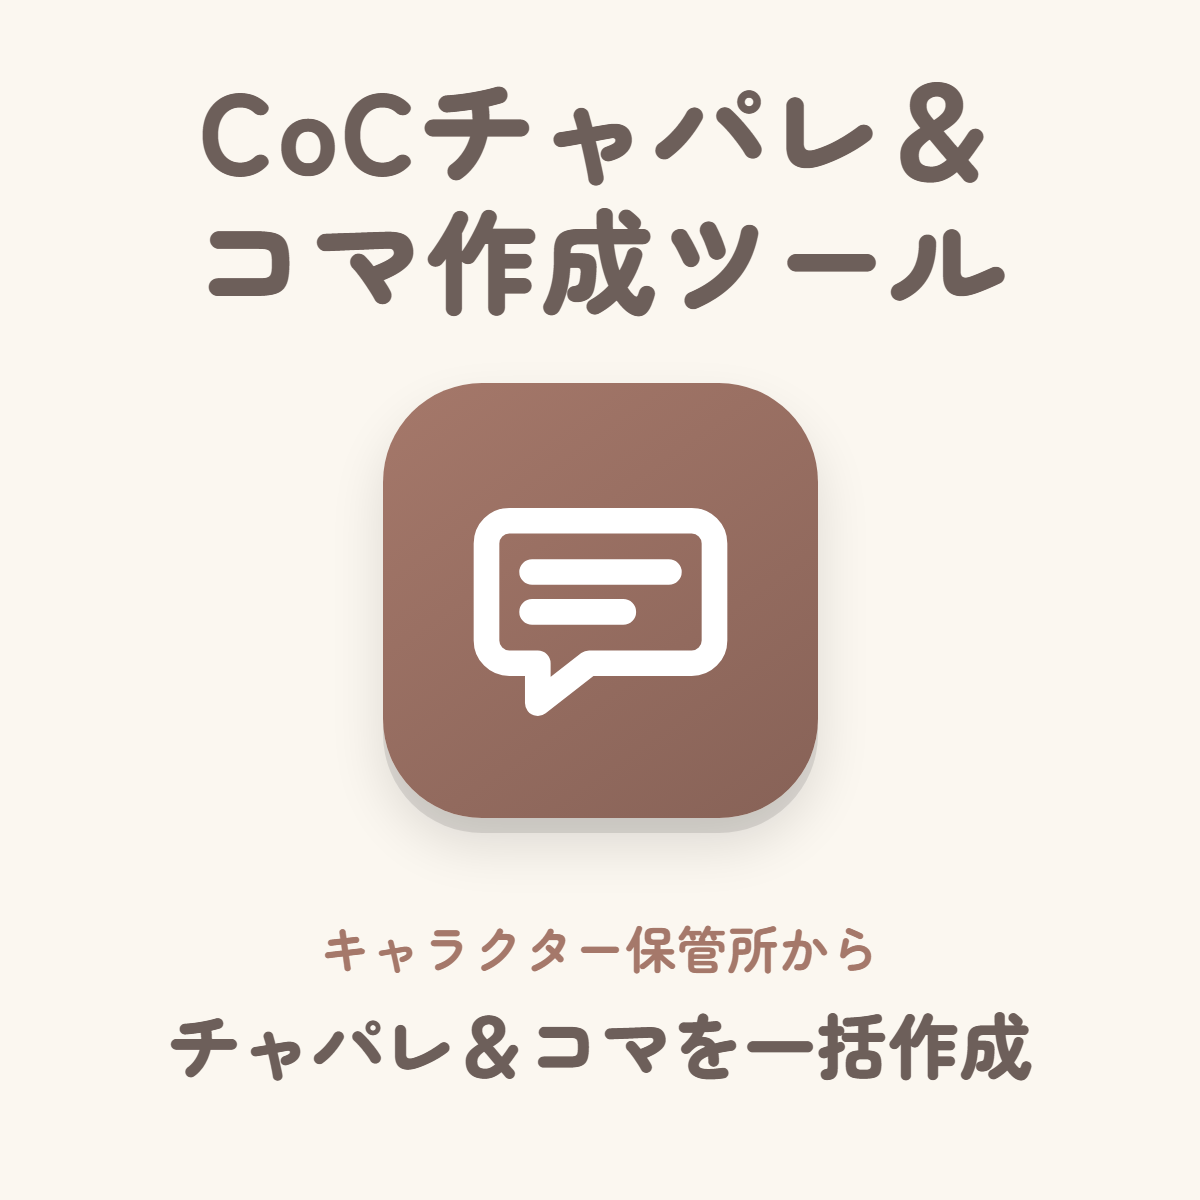
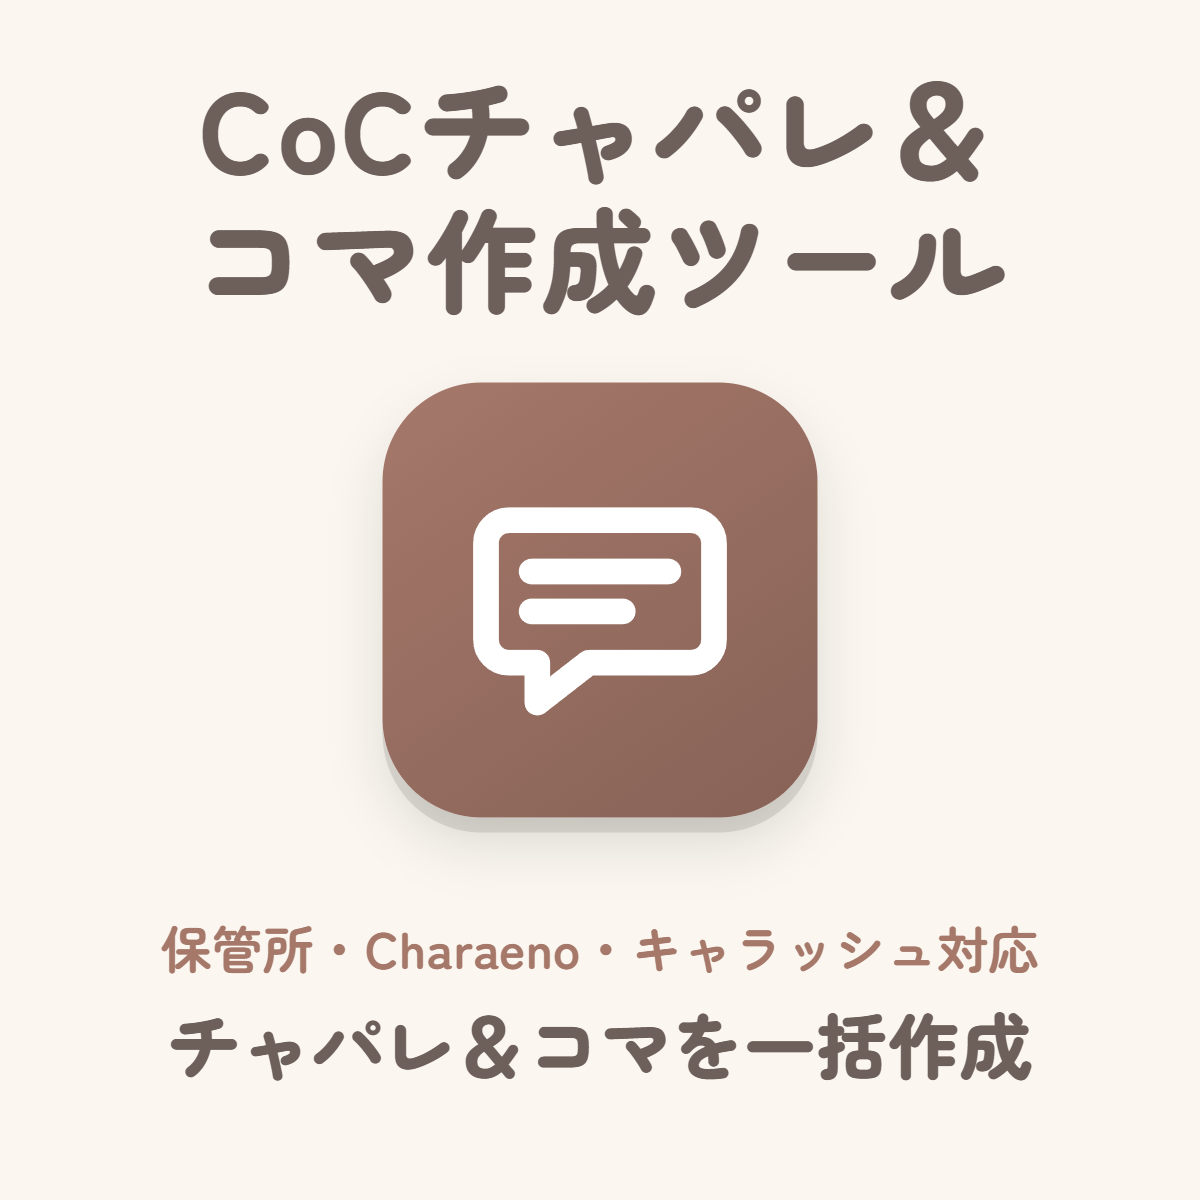
CoCチャパレ＆コマ作成ツールの対応サイトを3サイトに更新
- 説明文を「キャラクター保管所・Charaeno・キャラッシュ(CoC6版)のデータから」に変更
- 商品画像の小さい文字を「保管所・Charaeno・キャラッシュ対応」に変更し、OGP画像も作り直し
- 手元用の商品画像テンプレートを置く design/products/ を .gitignore に追加

Changed region(s): [[0.1233, 0.7708, 0.8633, 0.8325], [0.37, 0.0925, 0.4008, 0.1233], [0.2775, 0.185, 0.3083, 0.2158]]

diff --git a/src/data/tools.ts b/src/data/tools.ts
@@ -29,8 +29,8 @@ export const tools: Tool[] = [
   {
     id: '404-tool',
     title: 'CoCチャパレ＆コマ作成ツール',
-    description: 'キャラクター保管所(CoC6版)のデータから、チャットパレットとコマ用プロフィールを一括作成。',
-    detailText: 'キャラクター保管所(CoC6版)のデータから、チャットパレットとコマ用プロフィールを一括作成。\nTekeyへの直接送信や、ココフォリア用データの出力、文字色プレビュー機能も搭載。',
+    description: 'キャラクター保管所・Charaeno・キャラッシュ(CoC6版)のデータから、チャットパレットとコマ用プロフィールを一括作成。',
+    detailText: 'キャラクター保管所・Charaeno・キャラッシュ(CoC6版)のデータから、チャットパレットとコマ用プロフィールを一括作成。\nTekeyへの直接送信や、ココフォリア用データの出力、文字色プレビュー機能も搭載。',
     url: 'https://nununu-tatata.github.io/404-tool/',
     xUrl: 'https://x.com/nukonuko_4/status/2012091202644881772?s=20',
     type: 'Web',
